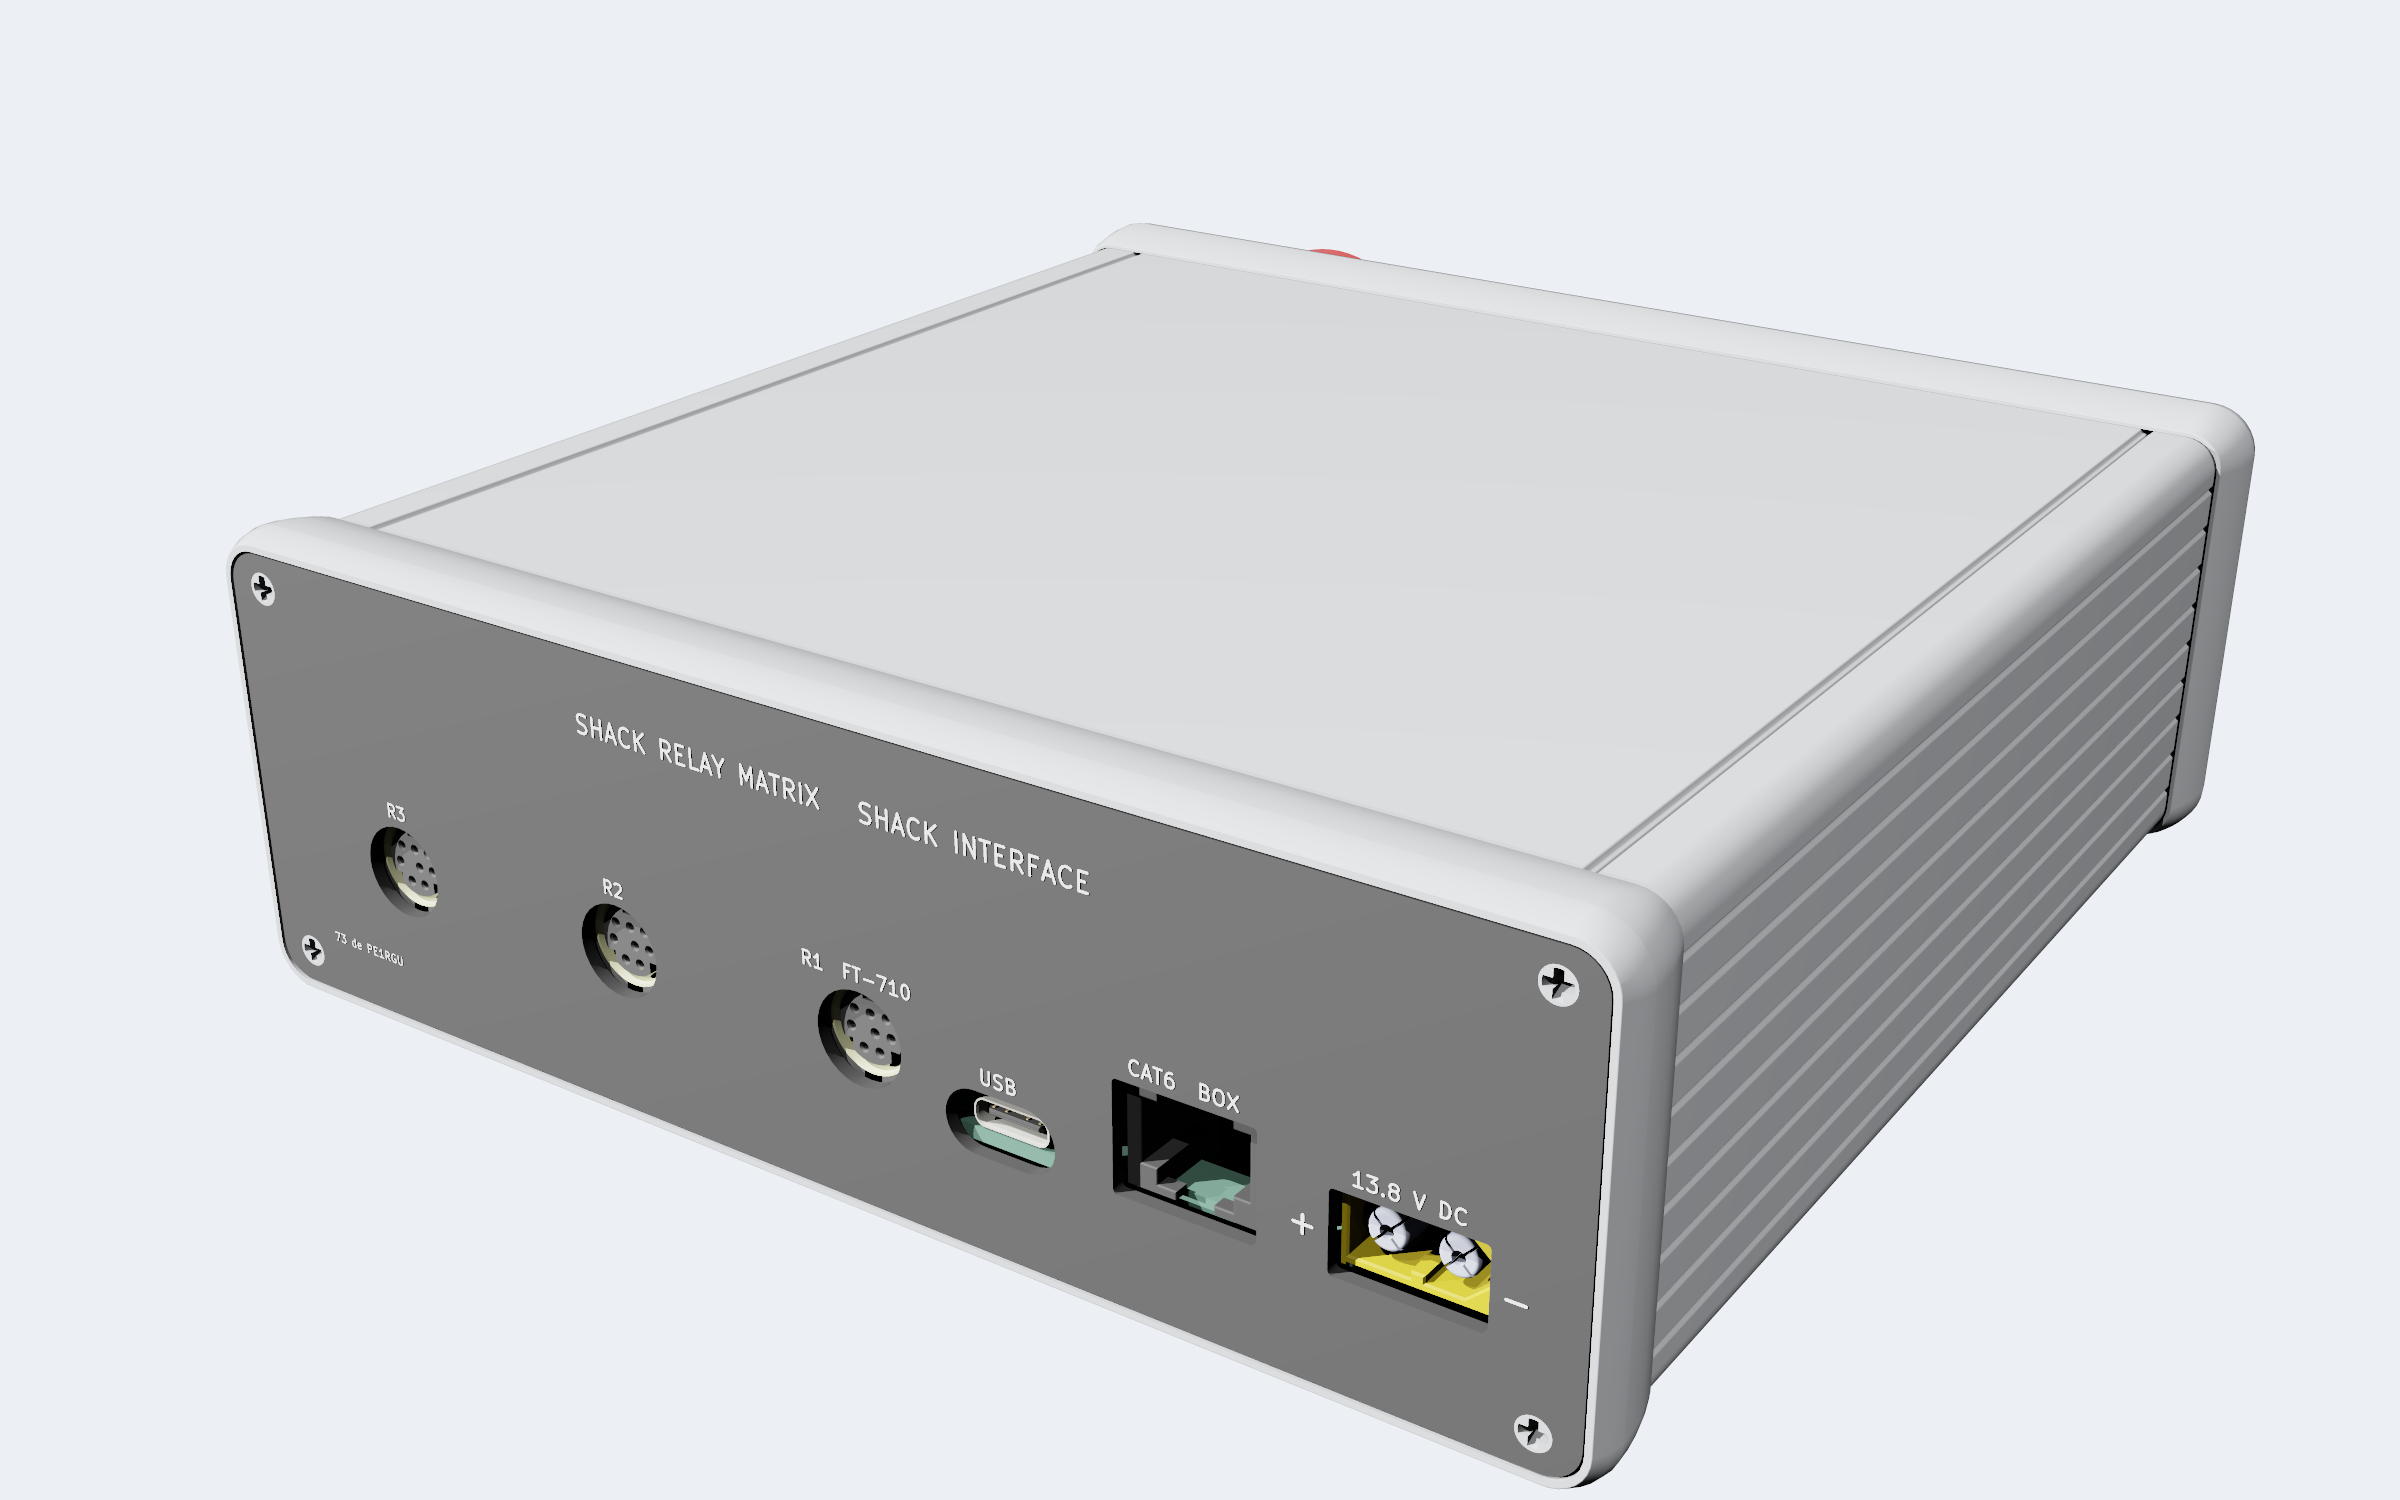
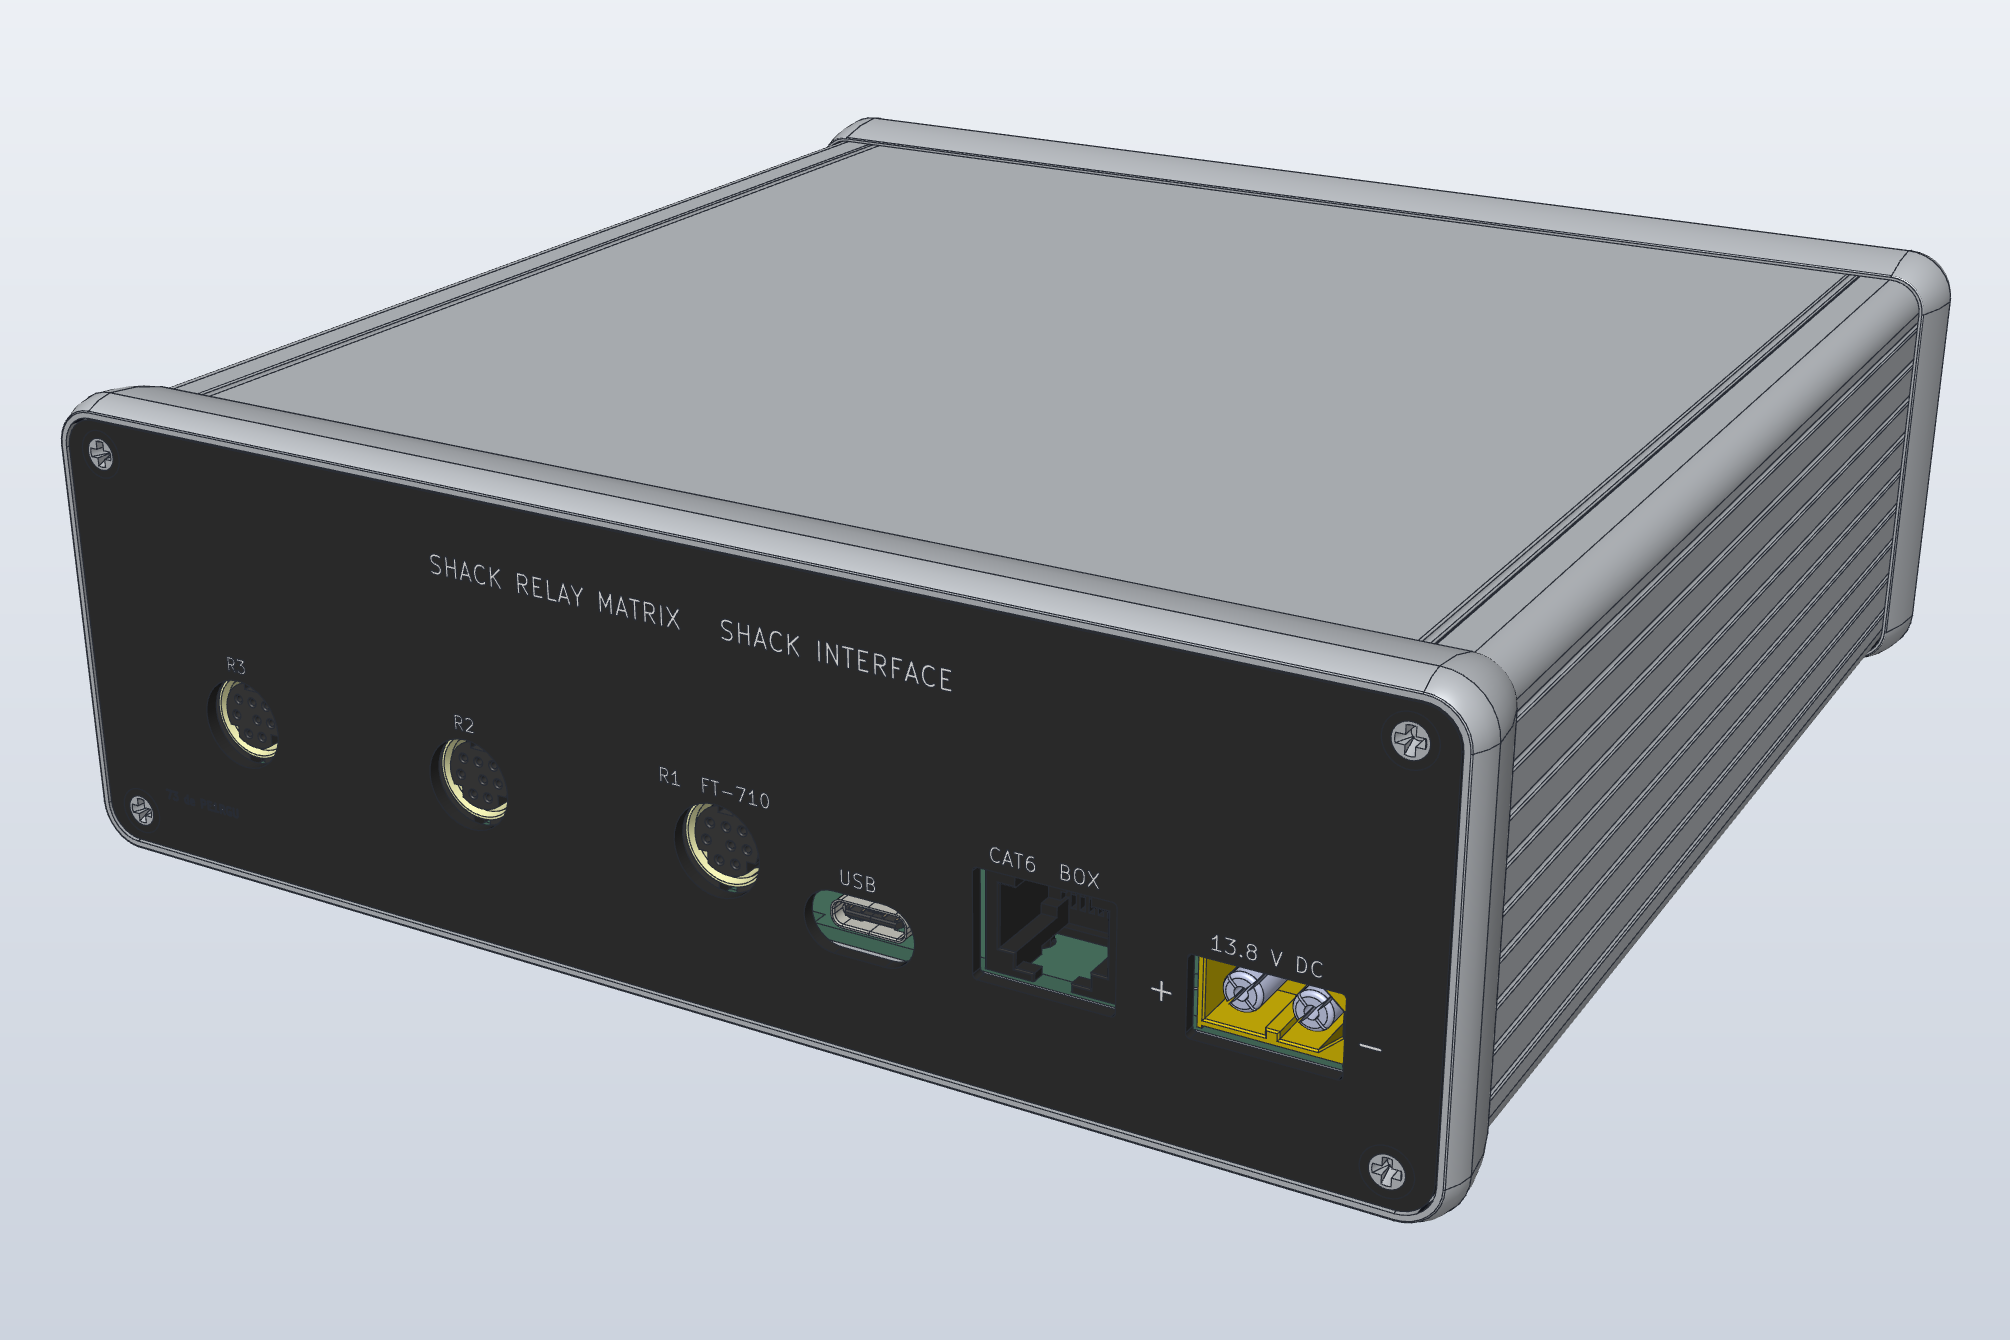
README: clearer front and rear views of the shack interface
SolidCraft views in place of the dark CPU ray-traced renders; same style
as the open-case views.

Claude-Session: https://claude.ai/code/session_01B1V8swdbsr8c87yrmmzj34

diff --git a/README.md b/README.md
@@ -124,7 +124,7 @@ At the rear: 13.8 V DC, Cat6 to the outdoor unit, USB and the three radio ports.
   <img src="docs/images/shack-interface-front.png" alt="Shack interface, front: display, SAFE and LATCHED LEDs, RESET and the red KILL switch" width="49%">
   <img src="docs/images/shack-interface-rear.png" alt="Shack interface, rear: three mini-DIN radio ports, USB-C, Cat6 and the XT60 power input" width="49%">
 </p>
-<p align="center"><em>Front and rear of the shack interface (SolidCraft renders).</em></p>
+<p align="center"><em>Front and rear of the shack interface (SolidCraft views).</em></p>
 
 ## Safety chain
 
